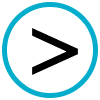
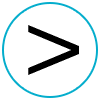
layout adjustments on design show page

diff --git a/app/assets/stylesheets/design.scss b/app/assets/stylesheets/design.scss
@@ -192,7 +192,7 @@ hr {
 
   .logo_type_not_home__design_show_2 {
     position: fixed;
-    top: 65%;
+    top: 75%;
     font-size: 85%
   }
 
